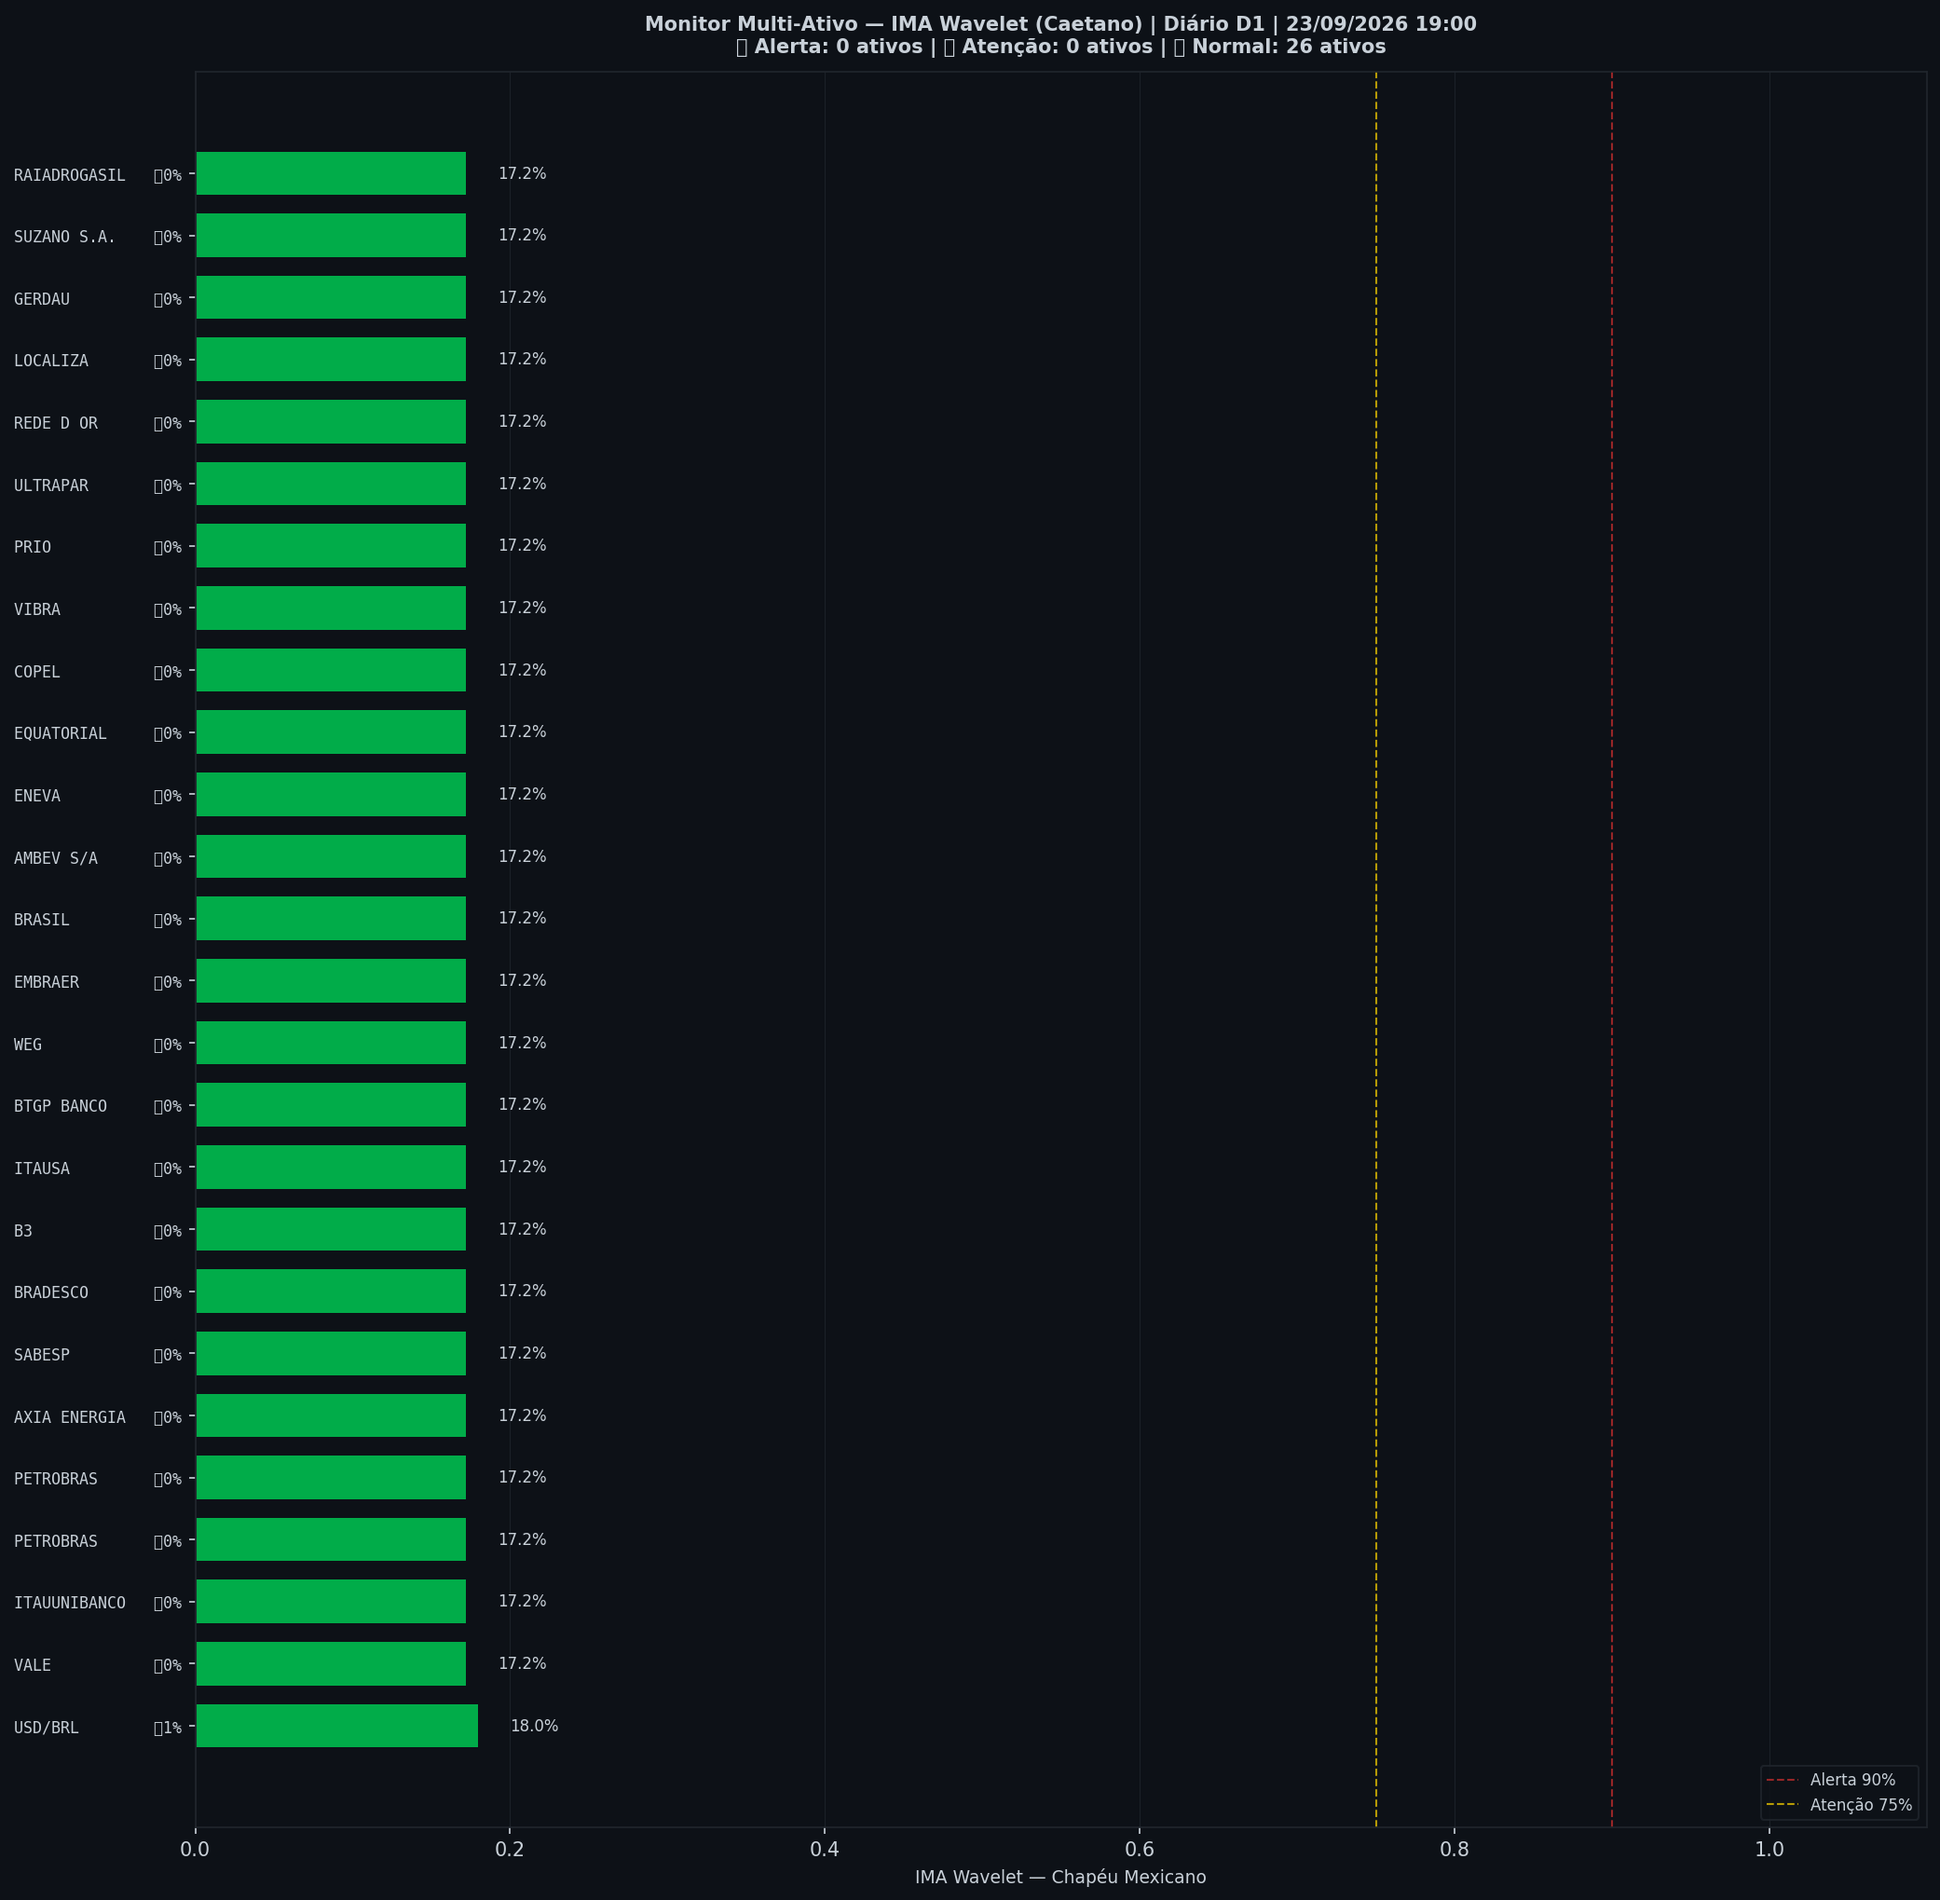
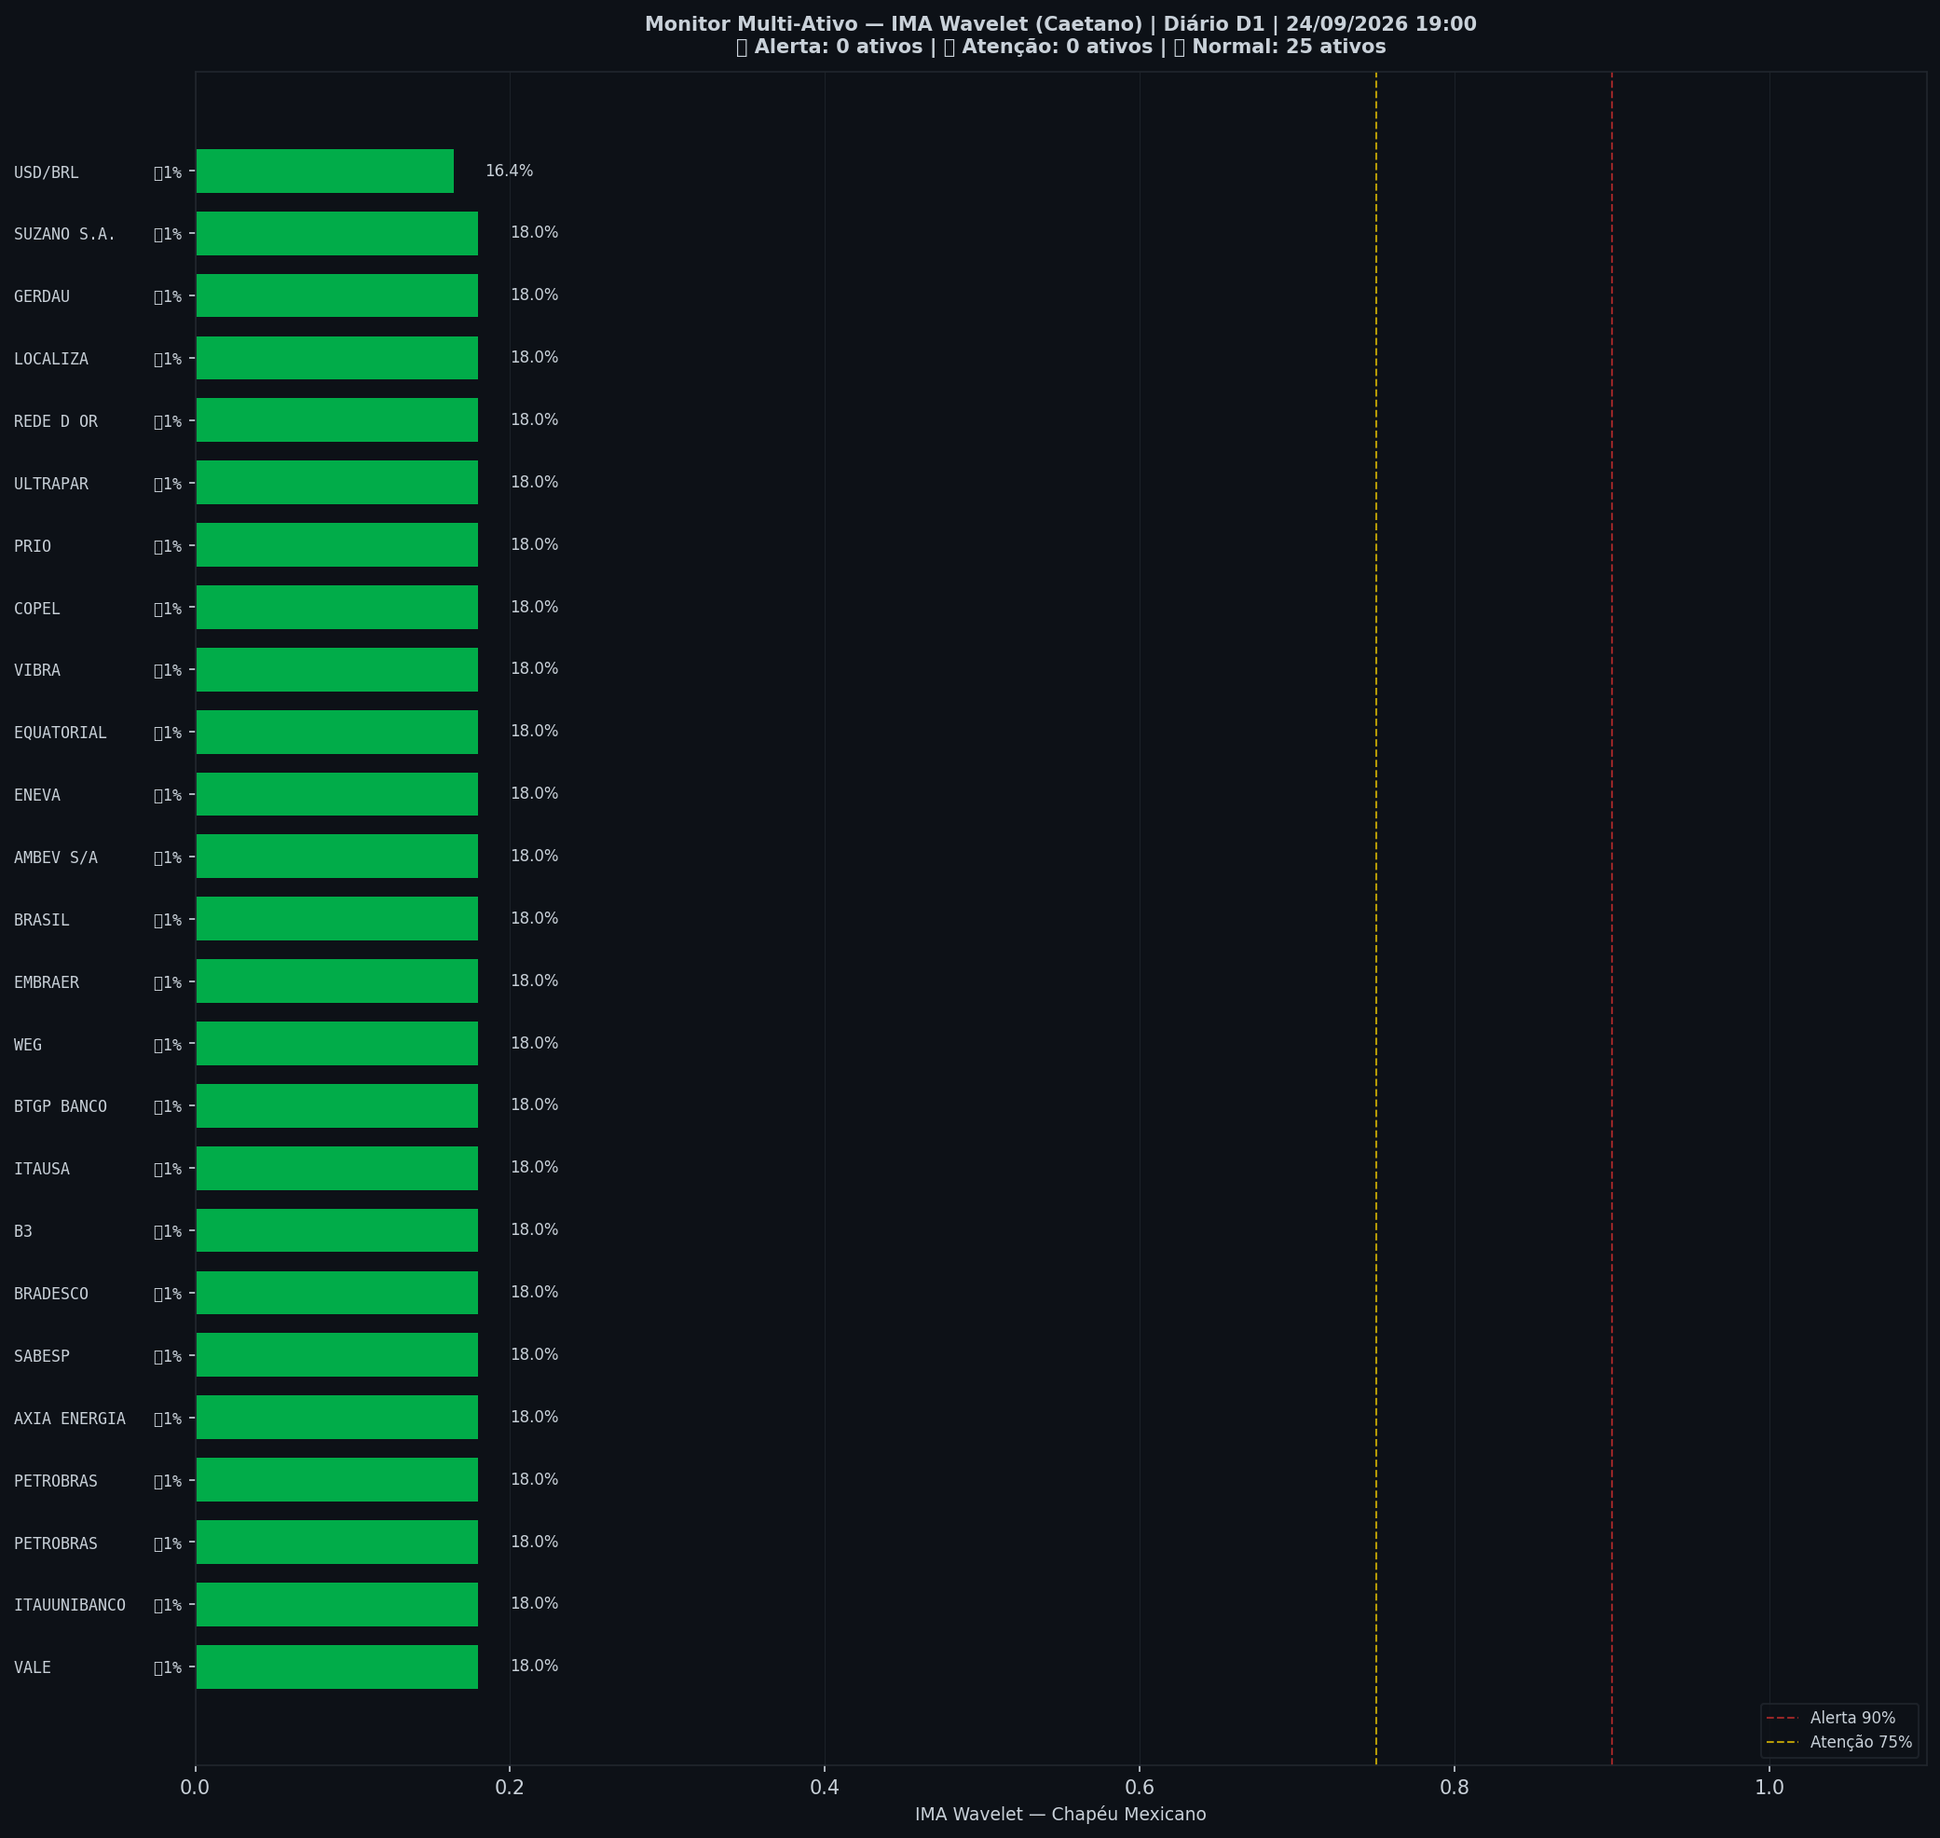
🤖 Auto: Sinal 24/09/2026 19:00

diff --git a/content/diario/2026-09-23.md b/content/diario/2026-09-23.md
@@ -1,0 +1,103 @@
+---
+title: "🟢 Diário 23/09/2026 — VERDE"
+date: 2026-09-24
+tags: [diario]
+---
+
+> [!success] 🟢 **VERDE** — Risco 0% · ＝ +0 p.p. vs leitura anterior
+> `░░░░░░░░░░░░░░░░░░░░`
+> Mercado sem sinais relevantes de estresse.
+
+
+| Indicador | Valor |
+|---|---|
+| 🔴 ζ Crash — severidade da queda em curso | **0%** |
+| 🔵 ζ Entrada — estrutura de fundo | 4% |
+| 🫧 LPPL DS-Confidence | 0% |
+| 📊 Ibovespa | 183.966 pts |
+
+![Gráfico do sinal](../graficos/sinal_diario.png)
+
+## Últimos 30 pregões
+
+| Data | Zona | Risco | IMA Crash | Entrada | LPPL |
+|---|---|---|---|---|---|
+| 2026-09-23 21:00 | 🟢 VERDE | **0%** | 0% | 4% | 0% |
+| 2026-09-22 21:00 | 🟢 VERDE | **0%** | 0% | 3% | 0% |
+| 2026-09-20 21:00 | 🟢 VERDE | **1%** | 2% | 4% | 0% |
+| 2026-09-17 21:00 | 🟢 VERDE | **4%** | 7% | 3% | 0% |
+| 2026-09-16 21:00 | 🟢 VERDE | **9%** | 15% | 2% | 0% |
+| 2026-09-15 21:00 | 🟢 VERDE | **11%** | 18% | 2% | 0% |
+| 2026-09-14 21:00 | 🟢 VERDE | **37%** | 62% | 0% | 0% |
+| 2026-09-13 21:00 | 🟢 VERDE | **32%** | 53% | 0% | 0% |
+| 2026-09-10 21:00 | 🟢 VERDE | **30%** | 50% | 0% | 0% |
+| 2026-09-09 21:00 | 🟢 VERDE | **27%** | 45% | 0% | 0% |
+| 2026-09-08 21:00 | 🟢 VERDE | **22%** | 37% | 0% | 0% |
+| 2026-09-07 21:00 | 🟢 VERDE | **17%** | 28% | 0% | 0% |
+| 2026-09-03 21:00 | 🟢 VERDE | **6%** | 10% | 1% | 0% |
+| 2026-09-02 21:00 | 🟢 VERDE | **3%** | 5% | 5% | 0% |
+| 2026-09-01 21:00 | 🟢 VERDE | **8%** | 14% | 2% | 0% |
+| 2026-08-31 21:00 | 🟢 VERDE | **8%** | 12% | 0% | 0% |
+| 2026-08-30 21:00 | 🟢 VERDE | **8%** | 12% | 0% | 0% |
+| 2026-08-27 21:00 | 🟢 VERDE | **6%** | 9% | 0% | 0% |
+| 2026-08-26 21:00 | 🟢 VERDE | **4%** | 6% | 1% | 0% |
+| 2026-08-25 21:00 | 🟢 VERDE | **2%** | 4% | 6% | 0% |
+| 2026-08-24 21:00 | 🟢 VERDE | **0%** | 1% | 14% | 0% |
+| 2026-08-23 21:00 | 🟢 VERDE | **0%** | 0% | 21% | 0% |
+| 2026-08-20 21:00 | 🟢 VERDE | **0%** | 0% | 25% | 0% |
+| 2026-08-19 21:00 | 🟢 VERDE | **0%** | 0% | 27% | 0% |
+| 2026-08-18 21:00 | 🟢 VERDE | **0%** | 0% | 27% | 0% |
+| 2026-08-17 21:00 | 🟢 VERDE | **0%** | 0% | 26% | 0% |
+| 2026-08-16 21:00 | 🟢 VERDE | **0%** | 0% | 25% | 0% |
+| 2026-08-13 21:00 | 🟢 VERDE | **0%** | 0% | 23% | 0% |
+| 2026-08-12 21:00 | 🟢 VERDE | **0%** | 0% | 20% | 0% |
+| 2026-08-11 21:00 | 🟢 VERDE | **0%** | 0% | 65% | 0% |
+
+## Monitor Multi-Ativo
+
+**0% dos ativos em tensão** (0🔴 0🟡) — quanto mais ativos disparam juntos, mais confiável o sinal.
+
+| Zona | Ativo | Setor | IMA Crash | IMA Entrada |
+|---|---|---|---|---|
+| 🟢 | **VALE** | Mineração | 18.0% | 0.8% |
+| 🟢 | **ITAUUNIBANCO** | Financeiro | 18.0% | 0.8% |
+| 🟢 | **PETROBRAS** | Petróleo | 18.0% | 0.8% |
+| 🟢 | **PETROBRAS** | Petróleo | 18.0% | 0.8% |
+| 🟢 | **AXIA ENERGIA** | Energia | 18.0% | 0.8% |
+| 🟢 | **SABESP** | Saneamento | 18.0% | 0.8% |
+| 🟢 | **BRADESCO** | Financeiro | 18.0% | 0.8% |
+| 🟢 | **B3** | Financeiro | 18.0% | 0.8% |
+| 🟢 | **ITAUSA** | Financeiro | 18.0% | 0.8% |
+| 🟢 | **BTGP BANCO** | Financeiro | 18.0% | 0.8% |
+| 🟢 | **WEG** | Industrial | 18.0% | 0.8% |
+| 🟢 | **EMBRAER** | Outros | 18.0% | 0.8% |
+| 🟢 | **BRASIL** | Financeiro | 18.0% | 0.8% |
+| 🟢 | **AMBEV S/A** | Consumo | 18.0% | 0.8% |
+| 🟢 | **ENEVA** | Energia | 18.0% | 0.8% |
+| 🟢 | **EQUATORIAL** | Energia | 18.0% | 0.8% |
+| 🟢 | **VIBRA** | Energia | 18.0% | 0.8% |
+| 🟢 | **COPEL** | Energia | 18.0% | 0.8% |
+| 🟢 | **PRIO** | Petróleo | 18.0% | 0.8% |
+| 🟢 | **ULTRAPAR** | Outros | 18.0% | 0.8% |
+| 🟢 | **REDE D OR** | Saúde | 18.0% | 0.8% |
+| 🟢 | **LOCALIZA** | Aluguel | 18.0% | 0.8% |
+| 🟢 | **GERDAU** | Siderurgia | 18.0% | 0.8% |
+| 🟢 | **SUZANO S.A.** | Papel/Celulose | 18.0% | 0.8% |
+| 🟢 | **USD/BRL** | Câmbio | 16.4% | 0.8% |
+
+![Monitor multi-ativo](../graficos/multi_diario.png)
+
+*Página atualizada em 24/09/2026 19:00 BRT (leitura da barra de 2026-09-23 BRT).*
+
+> [!info]- Como interpretar (clique para expandir)
+> - **ζ Crash**: fração dos coeficientes wavelet acima do corte (Caetano & Yoneyama 2009). Escala absoluta: ζ=0,90 = 90% dos coeficientes anômalos — historicamente, quedas com ζ≥0,90 foram mais fundas e mais longas. **Mede a severidade do movimento em curso, não prevê o início da queda.**
+> - **ζ Entrada**: coeficientes negativos além do corte — estrutura de fundo, possível região de compra.
+> - **LPPL DS-Confidence**: fração de janelas (60–504 pregões) em que o modelo de bolha de Sornette produz um ajuste válido. 30% já é relevante; acima de 50% é forte evidência de estrutura de bolha.
+> - **Zonas com histerese**: o sinal só muda de zona ao cruzar o limiar de entrada, e só volta ao cruzar o de saída — evita flip-flop diário.
+
+
+---
+*Sinal de Crise B3 v4 · IMA Wavelet ([Caetano & Yoneyama, Physica-A 2007](https://doi.org/10.1016/j.physa.2007.03.054)) + LPPL DS-Confidence (Sornette, ETH-Zurich) · [Metodologia](metodologia) · [Histórico](historico)*
+
+> [!quote]- Aviso
+> Estudo acadêmico. Não constitui recomendação de investimento.

diff --git a/content/index.md b/content/index.md
@@ -8,7 +8,7 @@ tags: [home]
 
 Monitoramento diário e intraday do Ibovespa — **IMA Wavelet** (Prof. Marco Antonio Leonel Caetano, ITA/INSPER) + **LPPL DS-Confidence** (Prof. Didier Sornette, ETH-Zurich).
 
-*Última atualização: 24/09/2026 17:31 BRT · ^BVSP · Intraday 15min · v4*
+*Última atualização: 24/09/2026 19:00 BRT · ^BVSP · Diário D1 · v4*
 
 > [!success] 🟢 **VERDE** — Risco 0% · ＝ +0 p.p. vs leitura anterior
 > `░░░░░░░░░░░░░░░░░░░░`
@@ -18,9 +18,9 @@ Monitoramento diário e intraday do Ibovespa — **IMA Wavelet** (Prof. Marco An
 | Indicador | Valor |
 |---|---|
 | 🔴 ζ Crash — severidade da queda em curso | **0%** |
-| 🔵 ζ Entrada — estrutura de fundo | 95% |
+| 🔵 ζ Entrada — estrutura de fundo | 4% |
 | 🫧 LPPL DS-Confidence | 0% |
-| 📊 Ibovespa | 184.254 pts |
+| 📊 Ibovespa | 183.966 pts |
 
 **Multi-ativo:** 0% em tensão (0🔴 0🟡 de 25 ativos)
 
@@ -32,8 +32,13 @@ Monitoramento diário e intraday do Ibovespa — **IMA Wavelet** (Prof. Marco An
 
 | Data | Zona | Risco | IMA | LPPL |
 |---|---|---|---|---|
-| [24 Sep 2026](diario/2026-09-24) | 🟢 VERDE | **0%** | 0% | 0% |
 | [23 Sep 2026](diario/2026-09-23) | 🟢 VERDE | **0%** | 0% | 0% |
+| [22 Sep 2026](diario/2026-09-22) | 🟢 VERDE | **0%** | 0% | 0% |
+| [20 Sep 2026](diario/2026-09-20) | 🟢 VERDE | **1%** | 2% | 0% |
+| [17 Sep 2026](diario/2026-09-17) | 🟢 VERDE | **4%** | 7% | 0% |
+| [16 Sep 2026](diario/2026-09-16) | 🟢 VERDE | **9%** | 15% | 0% |
+| [15 Sep 2026](diario/2026-09-15) | 🟢 VERDE | **11%** | 18% | 0% |
+| [14 Sep 2026](diario/2026-09-14) | 🟢 VERDE | **37%** | 62% | 0% |
 
 ## Navegação
 

diff --git a/content/historico.md b/content/historico.md
@@ -7,6 +7,7 @@ tags: [historico]
 
 | Data | Modo | Zona | Risco | IMA | LPPL |
 |---|---|---|---|---|---|
+| 2026-09-23 | diario | 🟢 VERDE | 0% | 0% | 0% |
 | 2026-09-24 16:45 | intraday | 🟢 VERDE | 0% | 0% | 0% |
 | 2026-09-24 16:30 | intraday | 🟢 VERDE | 0% | 0% | 0% |
 | 2026-09-24 16:15 | intraday | 🟢 VERDE | 0% | 0% | 0% |
